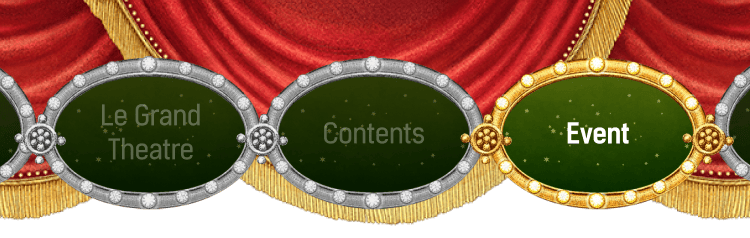
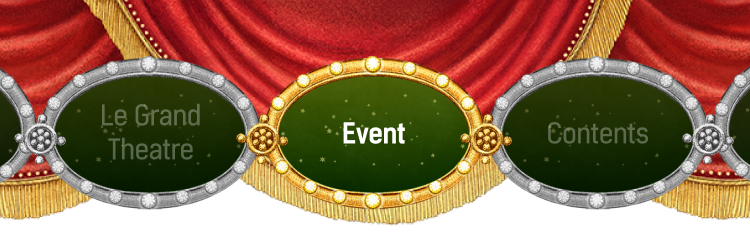
feat: h포인트 크리스마스 이벤트 페이지
- 섹션 순서 수정
- 이미지 교체
- 팝업 배경 스타일 수정

Changed region(s): [[0.3067, 0.2353, 0.9813, 0.8824]]

diff --git a/src/assets/scss/h-point-ch.scss b/src/assets/scss/h-point-ch.scss
@@ -328,60 +328,11 @@ button {
                 }
             }
         }
-        &.contents {
-            position: relative;
-            width: 100%;
-            margin-top: -29%;
-            padding-bottom: 13.333%;
-            z-index: 97;
-            &::before {
-                content: '';
-                width: 100%;
-                height: 100%;
-                position: absolute;
-                top: 0;
-                left: 0;
-                background: url('../../assets/images/h-point-christmas/contents-bg.png') no-repeat center center;
-                background-size: cover;
-            }
-            .section-head {
-                position: relative;
-                
-                .section-subject {
-                    padding-top: calc(32.266% + 5.333%);
-                    width: 65.6%;
-                    margin: 0 auto;
-                    img {
-                        width: 100%;
-                    }
-                }
-            }
-            .section-body {
-                position: relative;
-                padding: 0 5.333%;
-                z-index: 1;
-                .data-list {
-                    .data-item {
-                        &:nth-child(2) {
-                            margin-top: 4.533%;
-                        }
-                        &:last-child {
-                            margin-top: 5.333%;
-                        }
-                    }
-                    .data-link {
-                        display: block;
-                        img {
-                            width: 100%;
-                        }
-                    }
-                }
-            }
-        }
         &.calendar {
             position: relative;
             width: 100%;
             padding-bottom: 11.733vw;
+            margin-top: -8%;
             z-index: 97;
             &::before {
                 content: '';
@@ -408,7 +359,7 @@ button {
                 position: relative;
                 padding-top: 13.333%;
                 .section-subject {
-                    width: 86.666vw;
+                    width: 80.267vw;
                     margin: 0 auto;
                     img {
                         display: block;
@@ -731,6 +682,55 @@ button {
                 }
             }
         }
+        &.contents {
+            position: relative;
+            width: 100%;
+            padding-bottom: 13.333%;
+            z-index: 97;
+            &::before {
+                content: '';
+                width: 100%;
+                height: 100%;
+                position: absolute;
+                top: 0;
+                left: 0;
+                background: url('../../assets/images/h-point-christmas/contents-bg.png') no-repeat center center;
+                background-size: cover;
+            }
+            .section-head {
+                position: relative;
+                
+                .section-subject {
+                    padding-top: 13.335%;
+                    width: 65.6%;
+                    margin: 0 auto;
+                    img {
+                        width: 100%;
+                    }
+                }
+            }
+            .section-body {
+                position: relative;
+                padding: 0 5.333%;
+                z-index: 1;
+                .data-list {
+                    .data-item {
+                        &:nth-child(2) {
+                            margin-top: 4.533%;
+                        }
+                        &:last-child {
+                            margin-top: 5.333%;
+                        }
+                    }
+                    .data-link {
+                        display: block;
+                        img {
+                            width: 100%;
+                        }
+                    }
+                }
+            }
+        }
         &.notice {
             background-color: #131E22;
             padding: 8vw 5.333vw;
@@ -819,6 +819,9 @@ button {
                     &.layout1 {
                         height: calc(100vh - 22.133vw);
                         margin-top: 14.133vw;
+                    }
+                    &:has(.modal-area.day-24.on) {
+                        background: none;
                     }
                 }
                 .modal-area {
